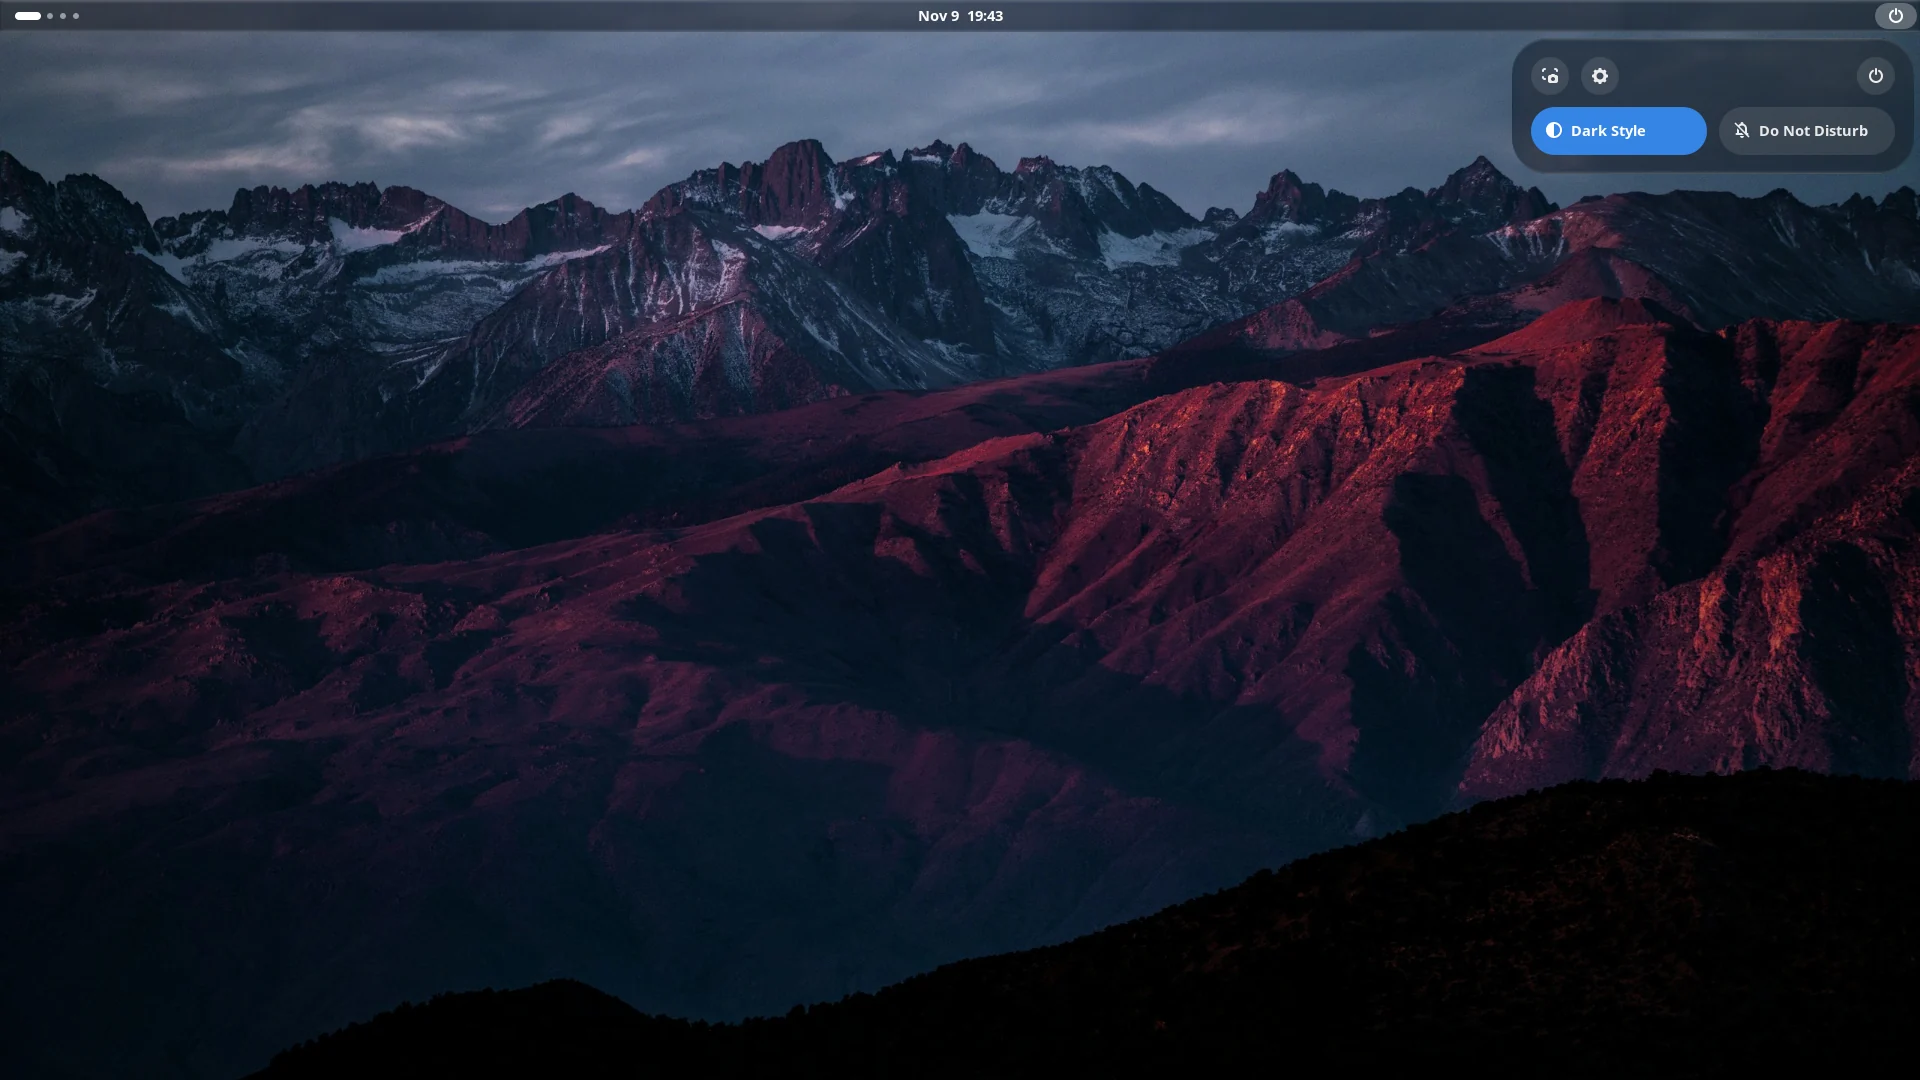
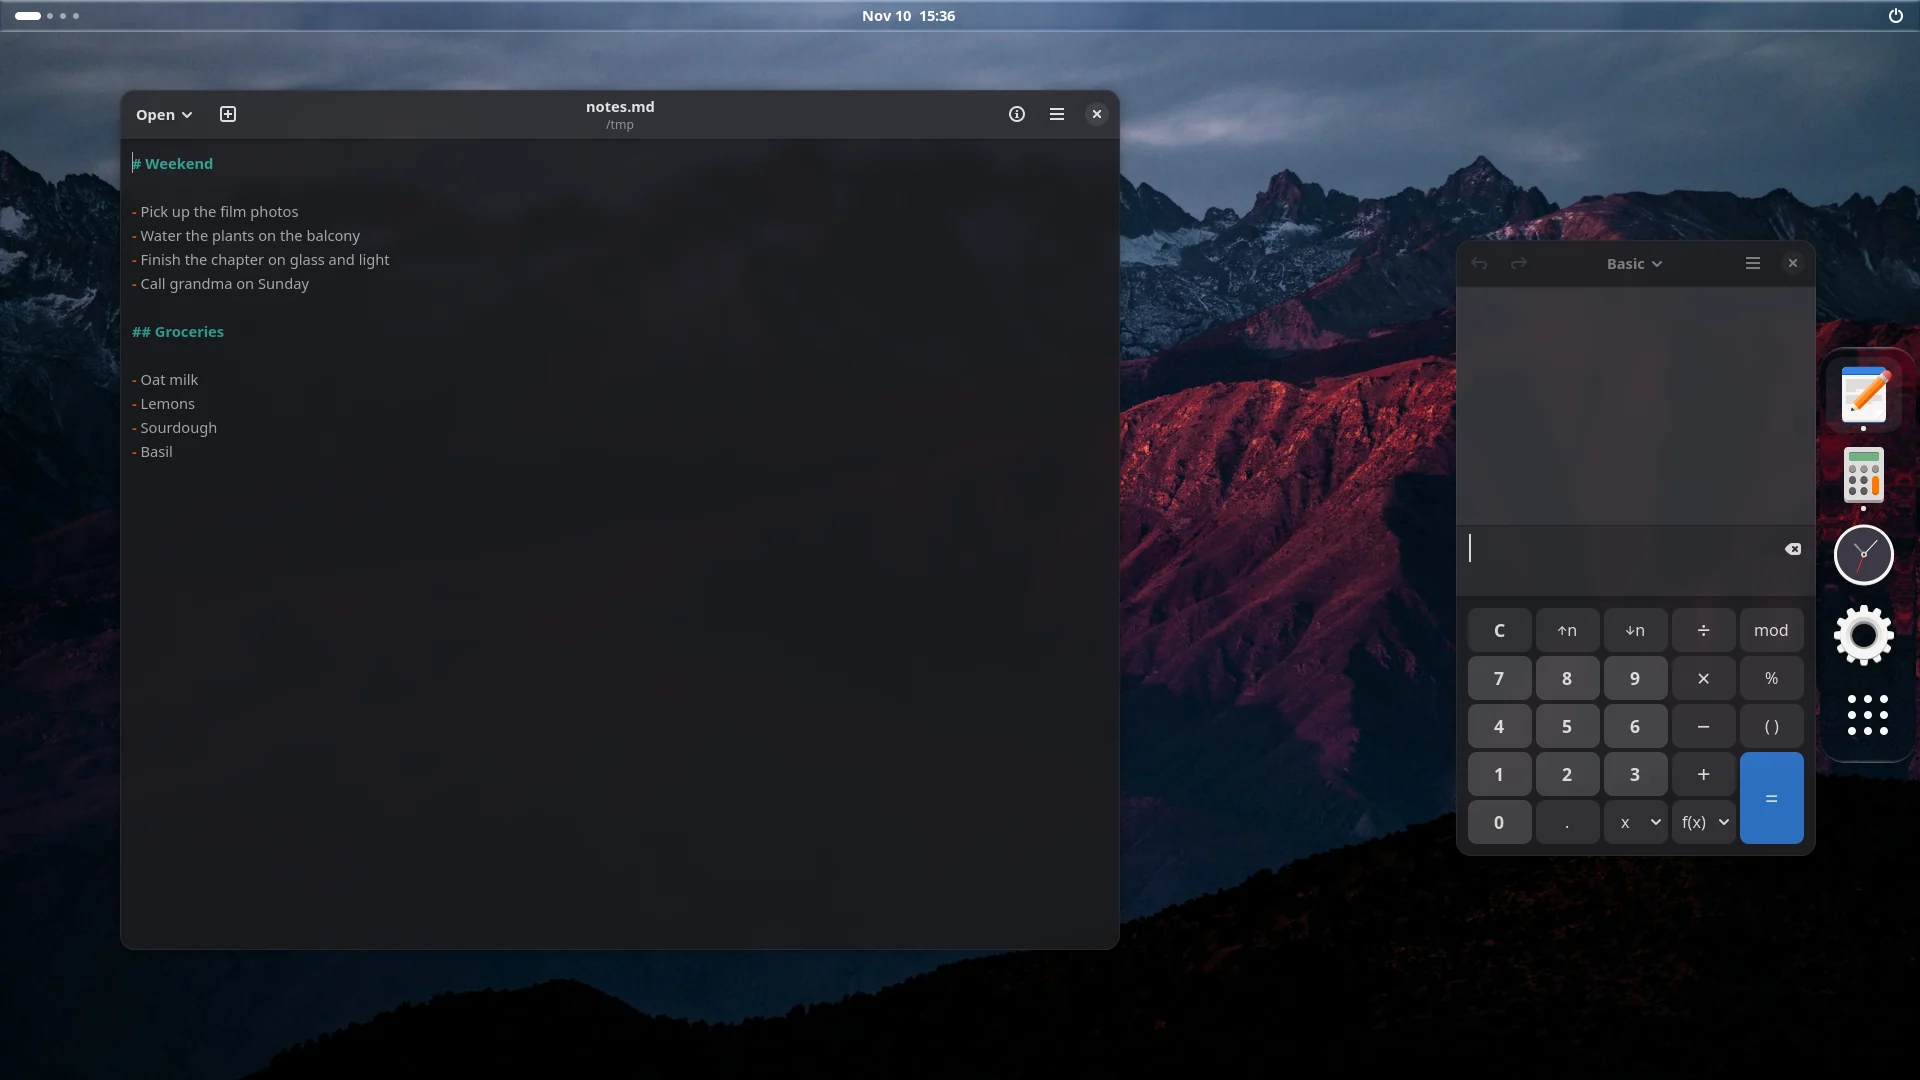
Show light and dark mode and a dock in the README screenshots

diff --git a/README.md b/README.md
@@ -8,7 +8,7 @@
 
 Blur my Shell adds blur to GNOME Shell: the top panel, the dash and overview, menus and notifications, the lock screen, and the windows of your applications. Every blur is made of effects you can tune, from a simple blur to Liquid Glass.
 
-![The desktop with a blurred panel, quick settings and application windows](docs/screenshots/desktop.webp)
+![The desktop in light and dark mode, with the panel, calendar, dock and a window blurred](docs/screenshots/light-dark.webp)
 
 ## What it blurs
 
@@ -19,7 +19,7 @@ Blur my Shell adds blur to GNOME Shell: the top panel, the dash and overview, me
 - **Applications**, behind their windows and their menus. Blur every window except the ones you exclude, or only the ones you list.
 - **Lock screen** and the **screenshot** window picker.
 
-![The overview with its blurred background and dash](docs/screenshots/overview.webp)
+![The overview with its blurred background and dock](docs/screenshots/overview.webp)
 
 ## Static and dynamic blur
 
@@ -35,7 +35,7 @@ Each part of the shell uses a pipeline: a list of effects applied one after the 
 
 A component can use a different pipeline in light and dark mode. Pipelines and settings can be exported to a file from the preferences, to back them up or share them.
 
-![Quick settings with the Liquid Glass pipeline](docs/screenshots/liquid-glass.webp)
+![The panel and dock with the Liquid Glass pipeline](docs/screenshots/liquid-glass.webp)
 
 ## Works with
 
